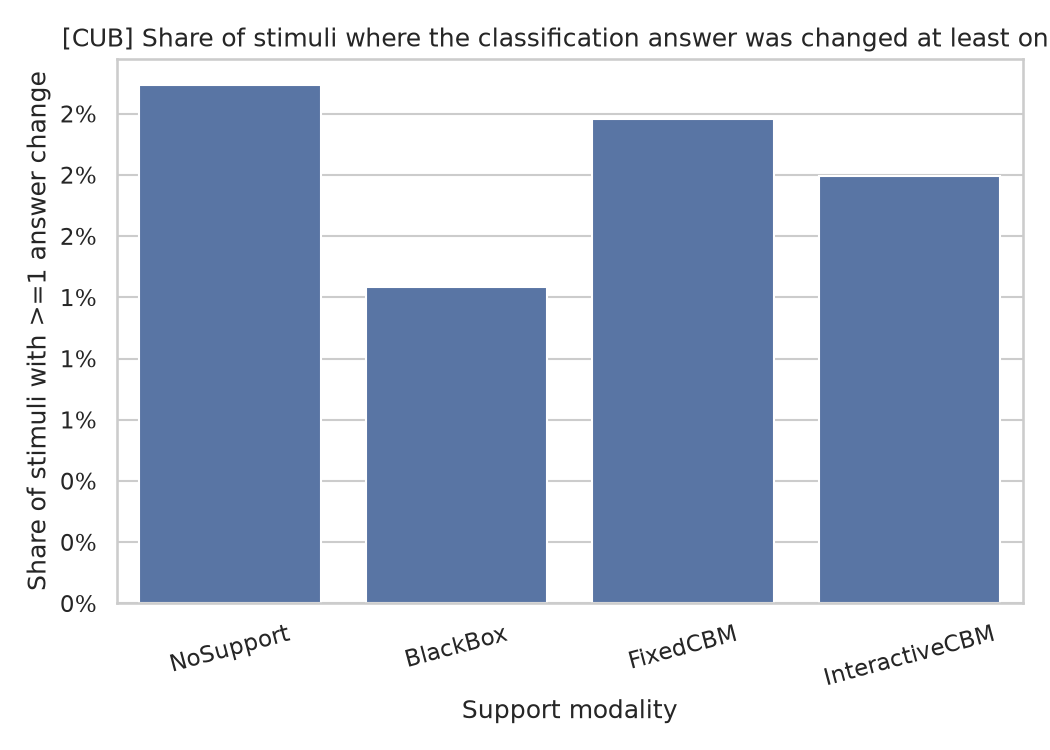
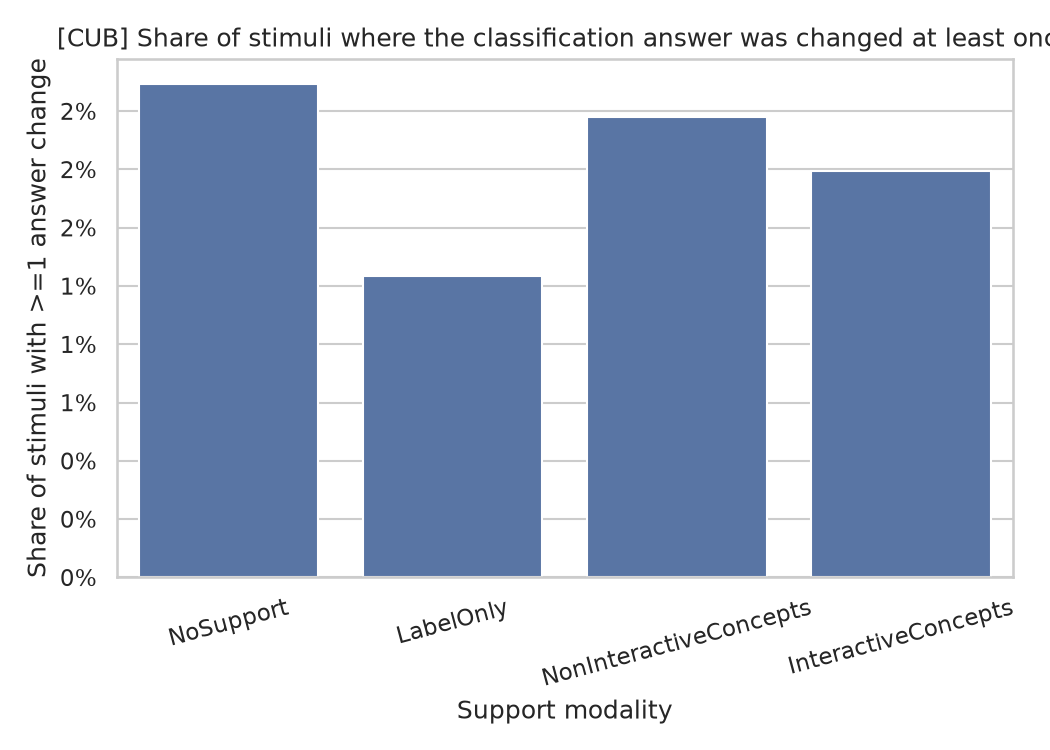
Switch CUB supplementary analysis to the official cleaned participant data
An official dataWideClean.csv/dataLongClean.csv for CUB was added to Drive
(user_study_results_cub/) and downloaded to cub/temp/. Diffed against
prepare_analysis_data.py's self-generated version (written when no
official file existed): confirmed equivalent -- identical 342-participant
set (0 difference either direction), identical values everywhere except
cosmetic condition/answer relabeling (BlackBox->LabelOnly, Le Conte->0,
etc, matching emails' established public-label convention). This
independently confirms the tab-switching threshold (>3) that was
previously only assumed by analogy with the emails study.

cub/scripts/supplementary_analysis.py now reads the official files
directly and uses the public condition labels (NoSupport/LabelOnly/
NonInteractiveConcepts/InteractiveConcepts) for consistency with emails.
prepare_analysis_data.py's default output directory changed to
temp/self_generated_clean so it can no longer accidentally overwrite the
official files if re-run; kept for provenance only.

Regenerated cub/figures/ -- numeric results unchanged (only condition
labels differ), as expected given the confirmed data equivalence. Updated
SUPPLEMENTARY_ANALYSIS.md's caveat section to reflect the confirmation.

diff --git a/cub/scripts/prepare_analysis_data.py b/cub/scripts/prepare_analysis_data.py
@@ -1,16 +1,20 @@
 """Build cleaned wide/long participant-response tables for CUB, mirroring
 emails/scripts/verify_participant_data.py's dataWideClean.csv/dataLongClean.csv
-outputs -- needed because no equivalent cleaning/exclusion pipeline exists
-yet for CUB (unlike emails, `cub/temp/updated_complete.csv` has no
-attention-check/tab-switching exclusion applied to it at all).
+outputs. Written when no official cleaned CUB dataset existed yet (unlike
+emails, `cub/temp/updated_complete.csv` had no attention-check/tab-switching
+exclusion applied at all).
 
-IMPORTANT CAVEAT: the exclusion criteria here (attention-check pass/fail,
-sum(TimeTabWasLeft) > 3) are carried over **by analogy** from the emails
-study, where they were confirmed by the researcher. For CUB, the
-attention-check logic is verified directly against this data (see below),
-but the specific ">3" tab-switching threshold is an assumption, not
-independently confirmed for CUB -- re-check with the researcher before
-treating results derived from it as final.
+SUPERSEDED: an official dataWideClean.csv/dataLongClean.csv for CUB has
+since been added to Drive (user_study_results_cub/) and downloaded to
+cub/temp/ -- use those directly, not this script's output. Comparing this
+script's output against the official files confirmed them equivalent
+(identical 342-participant set, identical values modulo cosmetic
+condition/answer relabeling), so the exclusion criteria below are now
+confirmed correct for CUB, not just assumed by analogy with emails. This
+script is kept for provenance/transparency of the derivation logic (and as
+a cross-check if the official file is ever regenerated) -- by default it
+writes to a separate directory so re-running it can never accidentally
+clobber the official files in cub/temp/.
 
 Attention-check pass criterion (verified against this data: 355/568
 participants match this exact pattern, by far the largest single group):
@@ -125,7 +129,8 @@ def build_long_clean(wide_clean: pd.DataFrame) -> pd.DataFrame:
 def parse_args() -> argparse.Namespace:
     parser = argparse.ArgumentParser(description=__doc__)
     parser.add_argument("--input", default="temp/updated_complete.csv")
-    parser.add_argument("--output-dir", default="temp")
+    parser.add_argument("--output-dir", default="temp/self_generated_clean",
+                         help="Kept separate from temp/ by default so this never overwrites the official files")
     return parser.parse_args()
 
 

diff --git a/cub/scripts/supplementary_analysis.py b/cub/scripts/supplementary_analysis.py
@@ -3,16 +3,21 @@ time-on-task vs. support modality, decisiveness (answer/concept-value
 changes) vs. support modality, and correlations between trust, confidence,
 interaction behavior, and time-on-task.
 
-Reads dataWideClean.csv/dataLongClean.csv, generated by
-prepare_analysis_data.py (run that first) -- see that script's docstring
-for the exclusion criteria applied and an important caveat about the
-tab-switching threshold being assumed by analogy with the emails study, not
-independently confirmed for CUB. Shared plotting logic lives in
+Reads temp/dataWideClean.csv and temp/dataLongClean.csv -- the official
+cleaned participant data downloaded from Drive (user_study_results_cub/).
+An earlier version of this pipeline self-generated these files
+(cub/scripts/prepare_analysis_data.py) before an official version existed;
+that script's output was verified byte-for-byte equivalent to the official
+files (identical 342-participant set, identical values modulo cosmetic
+condition/answer relabeling) once the official files became available, so
+the exclusion criteria it documents (attention-check pass/fail,
+sum(TimeTabWasLeft) > 3) are now confirmed correct for CUB, not just
+assumed by analogy with emails. Shared plotting logic lives in
 common/participant_analysis.py (also used by
 emails/scripts/supplementary_analysis.py).
 
 Example:
-  cd cub && uv run scripts/prepare_analysis_data.py && uv run scripts/supplementary_analysis.py
+  cd cub && uv run scripts/supplementary_analysis.py
 """
 
 import argparse
@@ -27,8 +32,8 @@ if str(REPO_ROOT) not in sys.path:
 
 from common.participant_analysis import run_all  # noqa: E402
 
-CONDITION_ORDER = ["NoSupport", "BlackBox", "FixedCBM", "InteractiveCBM"]
-INTERACTIVE_CONDITION = "InteractiveCBM"
+CONDITION_ORDER = ["NoSupport", "LabelOnly", "NonInteractiveConcepts", "InteractiveConcepts"]
+INTERACTIVE_CONDITION = "InteractiveConcepts"
 
 
 def parse_args() -> argparse.Namespace:

diff --git a/SUPPLEMENTARY_ANALYSIS.md b/SUPPLEMENTARY_ANALYSIS.md
@@ -19,40 +19,46 @@ model+concepts accuracy comparison, covering both experiments (`cub/` and
 # Emails (data already cleaned -- see emails/PARTICIPANT_DATA_REPORT.md)
 cd emails && uv run scripts/supplementary_analysis.py
 
-# CUB (needs the cleaning step first -- no equivalent existed before this)
-cd cub && uv run scripts/prepare_analysis_data.py && uv run scripts/supplementary_analysis.py
+# CUB (data already cleaned -- see cub/temp/dataWideClean.csv/dataLongClean.csv,
+# the official files downloaded from Drive)
+cd cub && uv run scripts/supplementary_analysis.py
 ```
 
 Figures are saved to `emails/figures/` and `cub/figures/` (tracked in git,
 unlike `data/`/`temp/`). Shared plotting/stats logic lives in
-`utils/participant_analysis.py`, used identically by both experiments'
+`common/participant_analysis.py`, used identically by both experiments'
 `scripts/supplementary_analysis.py`. All condition comparisons use
 Kruskal-Wallis (nonparametric — time/count data here are skewed, not
 normal); all correlations use Spearman.
 
-## Important caveat: CUB's participant data had no cleaning pipeline before this
+## Note: CUB's cleaning criteria were independently confirmed
 
-Emails already had a manually-cleaned, verified participant dataset
-(`dataWideClean.csv`/`dataLongClean.csv`, see `emails/PARTICIPANT_DATA_REPORT.md`).
-**CUB had none** — `cub/temp/updated_complete.csv` includes all 568 raw
-participants, with no attention-check or tab-switching exclusion applied
-anywhere in this repo. New `cub/scripts/prepare_analysis_data.py` builds
-the CUB equivalent, but with one assumption worth double-checking:
+CUB initially had no cleaned participant dataset in this repo at all
+(unlike emails, which already had `dataWideClean.csv`/`dataLongClean.csv`
+— see `emails/PARTICIPANT_DATA_REPORT.md`). `cub/scripts/prepare_analysis_data.py`
+was written to fill that gap, applying an attention-check pass/fail
+criterion (verified directly against the data: matches the single largest
+response pattern, 355/568 participants) plus a tab-switching threshold
+(`sum(TimeTabWasLeft) > 3`) carried over *by analogy* from the emails
+study — flagged at the time as an assumption, not confirmed for CUB.
 
-- **Attention-check pass criterion** — verified directly against the data
-  (matches the single largest response pattern, 355/568 participants):
-  `AttentionCheck1_ParticipantAnswer == "Le Conte" AND Confidence == 1`
-  AND `AttentionCheck2_ParticipantAnswer == "Savannah" AND Confidence == 13`.
-- **Tab-switching threshold (`sum(TimeTabWasLeft) > 3`)** — carried over
-  **by analogy** from the emails study's confirmed threshold, not
-  independently confirmed for CUB. If CUB used a different QC threshold
-  (or none), the "clean" CUB numbers below would shift.
-- **Net effect**: 226/568 CUB participants excluded (17 blank/incomplete,
-  213 failed attention checks, 18 excessive tab-switching, with overlap) —
-  a much higher exclusion rate (40%) than emails (54/417, 13%), driven
-  almost entirely by the attention-check criterion. Worth sanity-checking
-  this large a cut is intended/expected for CUB before treating the
-  numbers below as final.
+An official `dataWideClean.csv`/`dataLongClean.csv` for CUB has since been
+added to Drive and downloaded into `cub/temp/`. Diffing it against
+`prepare_analysis_data.py`'s output confirmed them **equivalent**:
+identical 342-participant set (0 difference either direction), identical
+values everywhere except cosmetic condition/answer relabeling (e.g.
+`BlackBox`→`LabelOnly`, `Le Conte`→`0`). The assumed tab-switching
+threshold was therefore correct. The official files are now the ones
+actually used by `cub/scripts/supplementary_analysis.py`;
+`prepare_analysis_data.py` is kept only for provenance/transparency of the
+derivation logic (its default output directory was changed so re-running
+it can't accidentally overwrite the official files).
+
+Net effect of the cleaning: 226/568 CUB participants excluded (17
+blank/incomplete, 213 failed attention checks, 18 excessive
+tab-switching, with overlap) — a much higher exclusion rate (40%) than
+emails (54/417, 13%), driven almost entirely by the attention-check
+criterion.
 
 ## A. Time vs. support modality
 
@@ -68,10 +74,11 @@ significant in both, per-stimulus and per-participant-total):
 Interactive-concept support takes noticeably longer than any other
 condition in both experiments — consistent with participants actually
 using the ability to edit concepts, not just glancing at extra output.
-CUB additionally shows a bigger gap between "sees concepts" (FixedCBM) and
-"sees only the label" (BlackBox) than emails does between the analogous
-conditions — plausible given CUB concepts require visually checking image
-regions, which is a slower judgment than reading text.
+CUB additionally shows a bigger gap between "sees concepts"
+(NonInteractiveConcepts) and "sees only the label" (LabelOnly) than
+emails does between the analogous conditions — plausible given CUB
+concepts require visually checking image regions, which is a slower
+judgment than reading text.
 
 ## B. Decisiveness
 
